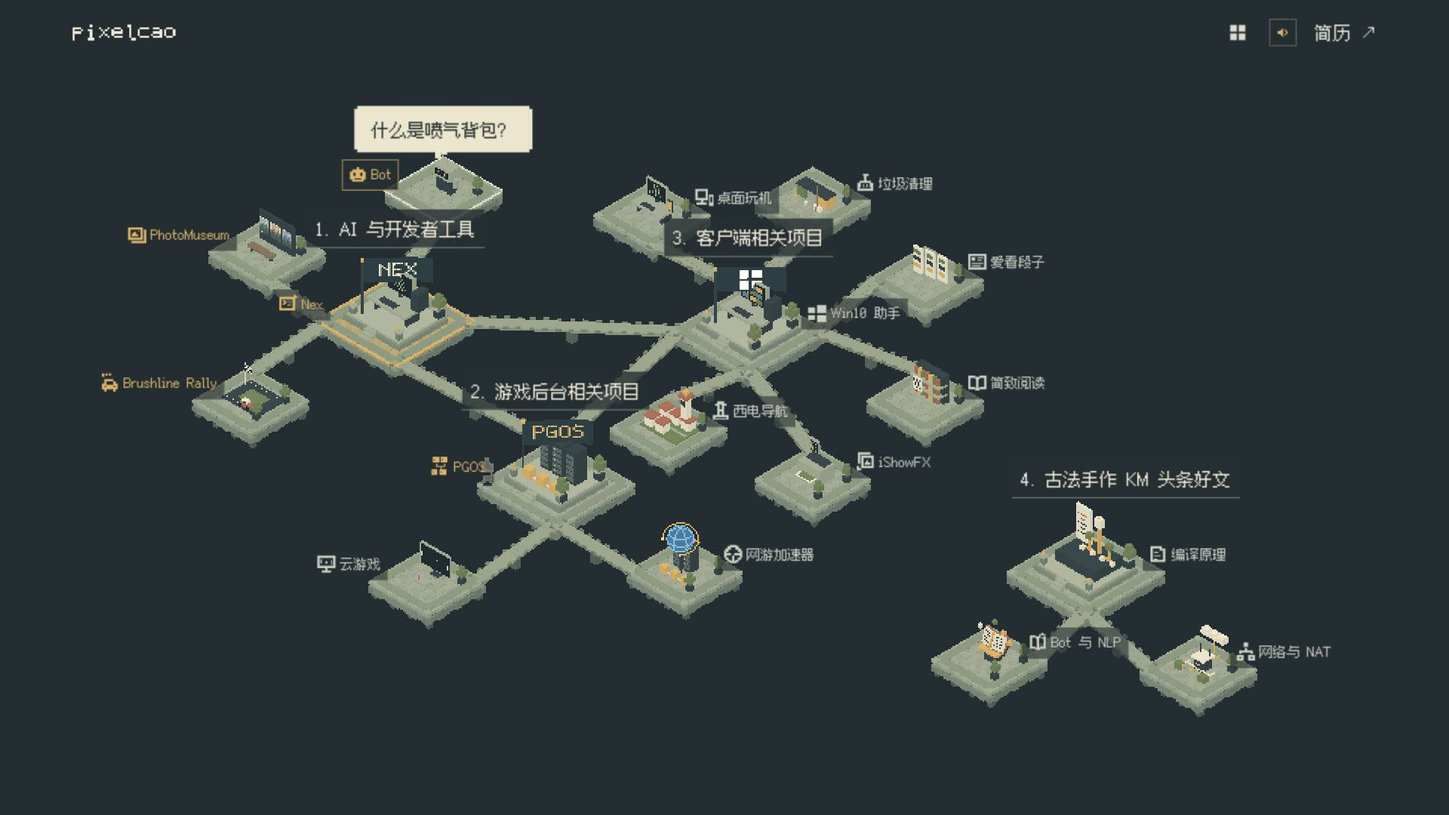
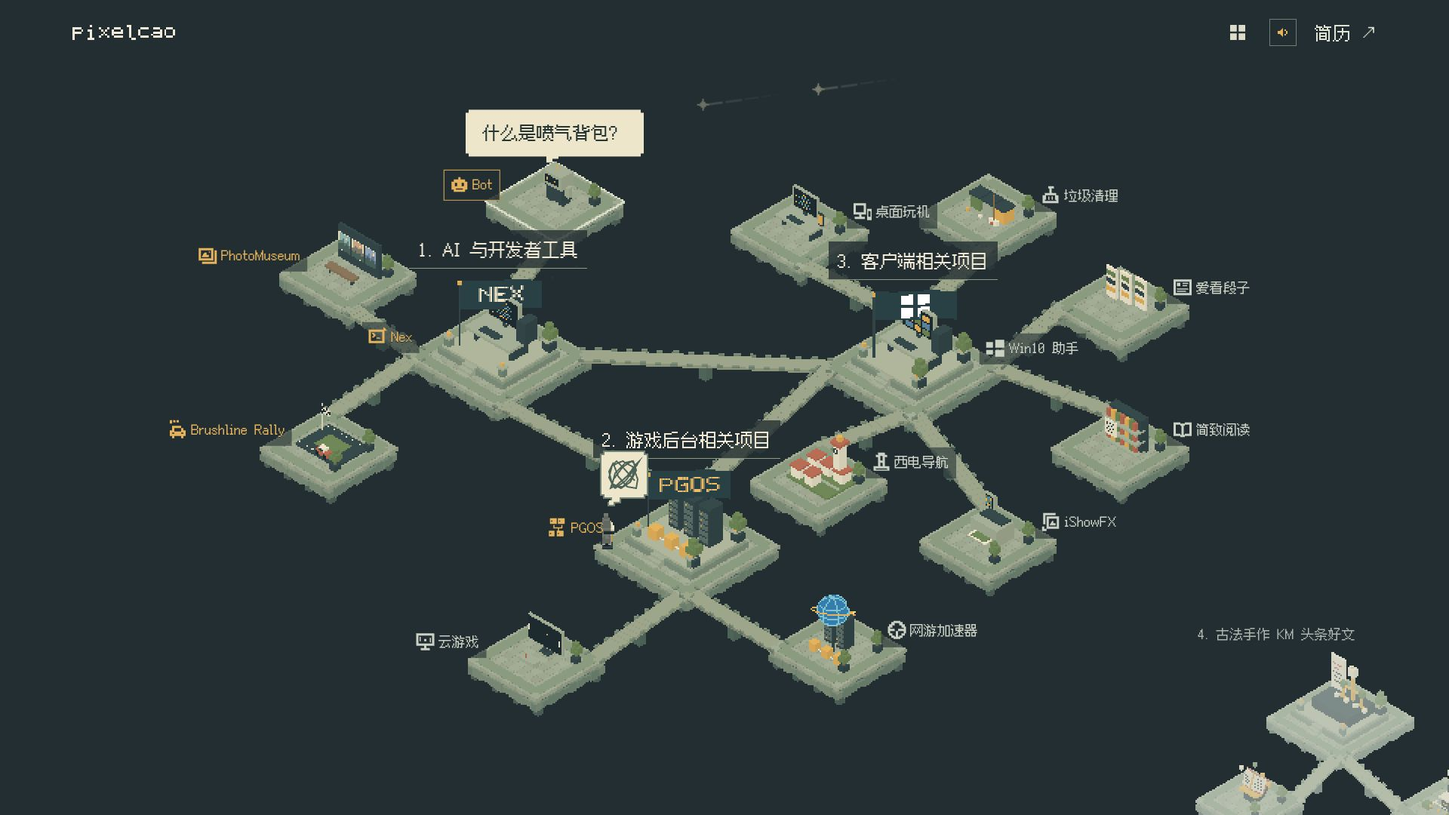
Center the main exhibition and fold KM into a masked edge preview

Changed region(s): [[0.0625, 0.1222, 1.0, 1.0], [0.8438, 0.0306, 0.9375, 0.0611], [0.0625, 0.0306, 0.125, 0.0611]]

diff --git a/src/exhibition.js b/src/exhibition.js
@@ -6,6 +6,7 @@ import {placeLabels} from './label-layout.js';
 import {HoverExhaust} from './hover-exhaust.js';
 import {RisingBridges} from './rising-bridges.js';
 import {TravelerIdle} from './traveler-idle.js';
+import {framedStations,archivePeekRect} from './archive-preview.js';
 import {makeWorld,Journey,themes} from './world.js';
 import {box,color,makeIsland,makeTraveler,batchBoxes} from './models.js';
 const clamp=T.MathUtils.clamp;
@@ -21,11 +22,12 @@ export class Exhibition {
   const mq=matchMedia('(prefers-reduced-motion: reduce)');this.reduced=()=>mq.matches||new URLSearchParams(location.search).get('motion')==='reduce';
   this.introActive=!this.reduced()&&!new URLSearchParams(location.hash.slice(1)).has('project');this.introElapsed=0;this.ripples=[];
   this.scene=new T.Scene();this.scene.background=new T.Color(0x222e32);
+  this.archiveMask={value:0};
   this.camera=new T.OrthographicCamera(-10,10,8,-8,.1,300);
   this.renderer=new T.WebGLRenderer({antialias:false,alpha:false,preserveDrawingBuffer:true});this.renderer.setPixelRatio(1);this.renderer.outputColorSpace=T.SRGBColorSpace;
   this.renderer.domElement.setAttribute('aria-label','四座主题岛群与白帽旅人');element.prepend(this.renderer.domElement);element.dataset.renderer='webgl';
   this.islands=this.world.stations.map(s=>{
-   const group=makeIsland(s);this.scene.add(group);group.traverse(o=>{if(o.material)o.material=o.material.clone();});
+   const group=makeIsland(s);this.scene.add(group);group.traverse(o=>{if(o.material){o.material=o.material.clone();if(!s.walkable)this.maskArchive(o.material);}});
    const edge=new T.LineSegments(new T.EdgesGeometry(new T.BoxGeometry(s.size,.06,s.size)),new T.LineBasicMaterial({color:color.gold}));edge.position.y=.03;group.add(edge);return {group,edge};
   });
   this.walkway=new T.Group();this.scene.add(this.walkway);this.sections=[];
@@ -41,7 +43,7 @@ export class Exhibition {
     }
    }
    if(e.bridge&&len>5)box(section,(a.x+b.x)/2,(a.y+b.y)/2-.65,(a.z+b.z)/2,.5,1,.5,0x556b60);
-   batchBoxes(section);section.traverse(o=>{if(o.material)o.material=o.material.clone();});this.sections.push({group:section,a:this.world.stations[a.station].theme,b:this.world.stations[b.station].theme});
+   batchBoxes(section);section.traverse(o=>{if(o.material){o.material=o.material.clone();if(this.world.stations[a.station].theme==='km')this.maskArchive(o.material);}});this.sections.push({group:section,a:this.world.stations[a.station].theme,b:this.world.stations[b.station].theme});
   }
   this.bridges=new RisingBridges(this.world);this.scene.add(this.bridges.group);
   this.traveler=makeTraveler();this.scene.add(this.traveler.root);this.traveler.root.scale.setScalar(1.15);
@@ -60,9 +62,35 @@ export class Exhibition {
   document.addEventListener('visibilitychange',()=>{this.last=0;this.hover=-1;this.focused=-1;this.idle.reset();this.onIslandSound?.({id:null});if(!document.hidden)this.wake();});
   this.renderer.domElement.addEventListener('webglcontextlost',e=>{e.preventDefault();this.active=false;this.focusShade.remove();this.profileButton.remove();this.islandMotion.bubble.remove();this.idle.dispose();this.onIslandSound?.({id:null});this.journey.cancel();this.closeResolve?.();this.closeResolve=null;this.onFailure?.();});
  }
+ maskArchive(material){
+  // A gray-white translucent veil composited only over the archive's surfaces.
+  material.onBeforeCompile=shader=>{shader.uniforms.archiveMask=this.archiveMask;shader.fragmentShader='uniform float archiveMask;\n'+shader.fragmentShader.replace('#include <colorspace_fragment>','#include <colorspace_fragment>\ngl_FragColor.rgb=mix(gl_FragColor.rgb,vec3(.80,.83,.80),archiveMask);');};
+  material.customProgramCacheKey=()=> 'archive-preview-mask-v1';
+ }
+ updateArchive(dt){
+  const stations=this.world.stations.filter(s=>!s.walkable),collapsed=this.mode==='overview';
+  const points=[];for(const s of stations)for(const x of [-s.size/2,s.size/2])for(const z of [-s.size/2,s.size/2])for(const y of [-1.5,s.hub?4.9:2.3])points.push(new T.Vector3(s.x+x,s.y+y,s.z+z));
+  const xs=points.map(p=>p.dot(right)),ys=points.map(p=>p.dot(up)),minX=Math.min(...xs),maxX=Math.max(...xs),minY=Math.min(...ys),maxY=Math.max(...ys);
+  const rect=archivePeekRect(this.width,this.height,(maxX-minX)/(maxY-minY));this.archiveRect=rect;
+  const units=this.viewHeight/this.height,targetScale=collapsed?Math.min(rect.width/(maxX-minX),rect.height/(maxY-minY))*units:1;
+  const offset=new T.Vector3();
+  if(collapsed){
+   const x=this.center.dot(right)+(rect.x+rect.width/2-this.width/2)*units-(minX+maxX)/2*targetScale;
+   const y=this.center.dot(up)+(this.height/2-rect.y-rect.height/2)*units-(minY+maxY)/2*targetScale;
+   offset.copy(right).multiplyScalar(x).addScaledVector(up,y);
+  }
+  const alpha=this.reduced()||!this.archivePose?1:1-Math.exp(-dt*7);
+  this.archivePose??={scale:targetScale,offset:offset.clone()};
+  this.archivePose.scale=T.MathUtils.lerp(this.archivePose.scale,targetScale,alpha);this.archivePose.offset.lerp(offset,alpha);
+  this.archiveMask.value=T.MathUtils.lerp(this.archiveMask.value,collapsed?.48:0,alpha);
+  this.archiveMoving=Math.abs(this.archivePose.scale-targetScale)>.0001||this.archivePose.offset.distanceTo(offset)>.005||Math.abs(this.archiveMask.value-(collapsed?.48:0))>.001;
+  for(const s of stations){const group=this.islands[s.index].group;group.position.set(s.x,s.y,s.z).multiplyScalar(this.archivePose.scale).add(this.archivePose.offset);group.scale.setScalar(this.archivePose.scale);group.visible=!this.introActive;}
+  for(const section of this.sections)if(section.a==='km'){section.group.position.copy(this.archivePose.offset);section.group.scale.setScalar(this.archivePose.scale);section.group.visible=!this.introActive;}
+  this.element.dataset.archive=collapsed?'collapsed':'expanded';this.element.dataset.archiveMask=this.archiveMask.value.toFixed(2);
+ }
  select(index,{focus=false}={}){this.selected=clamp(index,0,this.projects.length-1);if(focus)this.focusTheme(this.world.stations[this.selected].theme);this.syncLabels();this.wake();}
  focusTheme(id){this.cancel();this.browsingTransition=true;this.mode='theme';this.theme=id;this.follow=false;this.pan.set(0,0,0);this.zoom=1;this.syncLabels();this.wake();}
- overview(){this.cancel();this.browsingTransition=true;this.mode='overview';this.theme=null;this.follow=false;this.pan.set(0,0,0);this.zoom=1;this.syncLabels();this.wake();}
+ overview(){this.cancel();this.hover=-1;this.focused=-1;this.browsingTransition=true;this.mode='overview';this.theme=null;this.follow=false;this.pan.set(0,0,0);this.zoom=1;this.syncLabels();this.wake();}
  locate(index){this.skipIntro();this.browsingTransition=false;this.journey.cancel();if(this.world.stations[index].walkable)this.journey.visit(index,true);this.selected=index;this.theme=this.world.stations[index].theme;this.mode='theme';this.follow=false;this.pan.set(0,0,0);this.zoom=1;this.syncLabels();this.cameraAt(true);this.wake();}
  visit(index,{immediate=false}={}){
   if(['detail','closing'].includes(this.journey.phase))return;
@@ -115,12 +143,12 @@ export class Exhibition {
   // Fixed world axis (screen-right is x - z) keeps sign sides stable while panning.
   this.world.stations.forEach((s,i)=>{
    const b=document.createElement('button');b.disabled=!!this.browsingTransition;b.className='island-label';b.classList.toggle('is-featured',featuredLabels.has(s.id));b.dataset.card=i;b.dataset.projectId=s.id;b.dataset.labelSide=s.x>s.z?'right':'left';b.setAttribute('aria-label',`访问 ${this.projects[i].title}`);b.setAttribute('aria-pressed',String(i===this.selected));b.innerHTML=`${projectIcon(s.id)}<span>${shortNames[s.id]}</span>`;
-   b.onpointerenter=()=>{this.hover=i;this.wake();};b.onpointerleave=()=>{this.hover=-1;this.wake();};b.onfocus=()=>{this.focused=i;this.wake();};b.onblur=()=>{this.focused=-1;this.wake();};b.onclick=()=>this.onSelect(i,{visit:true});layer.append(b);
+   b.onpointerenter=()=>{this.hover=i;this.wake();};b.onpointerleave=()=>{this.hover=-1;this.wake();};b.onfocus=()=>{this.focused=i;this.wake();};b.onblur=()=>{this.focused=-1;this.wake();};b.onclick=()=>this.mode==='overview'&&!s.walkable?this.onTheme('km'):this.onSelect(i,{visit:true});layer.append(b);
   });
  }
  resize(){const r=this.element.getBoundingClientRect();if(!r.width||!r.height)return;this.width=r.width;this.height=r.height;this.headerHeight=document.querySelector('header')?.getBoundingClientRect().height||0;this.mobile=r.width<=850;this.renderer.setSize(Math.ceil(r.width/2),Math.ceil(r.height/2),false);this.cameraAt(true);this.wake();}
  framing(){
-  let stations=this.mode==='overview'?this.world.stations:this.world.stations.filter(s=>s.theme===this.theme);
+  let stations=framedStations(this.world.stations,this.mode,this.theme);
   const shortcut=this.follow?this.bridges.state.focusEdge(this.journey):null;
   if(shortcut)stations=[this.world.stations[this.world.nodes[shortcut.a].station],this.world.stations[this.world.nodes[shortcut.b].station]];
   const points=[];for(const s of stations)for(const x of [-s.size/2,s.size/2])for(const z of [-s.size/2,s.size/2])for(const y of [-1.5,s.hub?4.9:2.3])points.push(new T.Vector3(s.x+x,s.y+y,s.z+z));
@@ -157,9 +185,9 @@ export class Exhibition {
   el.addEventListener('pointermove',e=>{
    if(this.down){const dx=e.clientX-this.down.x,dy=e.clientY-this.down.y;if(Math.hypot(dx,dy)>8)this.down.drag=true;
     if(this.down.drag){this.follow=false;this.pan.copy(this.down.pan).addScaledVector(right,-dx*this.viewHeight/this.height).addScaledVector(up,dy*this.viewHeight/this.height);this.pan.clampLength(0,20);this.wake();}
-   }else{const hit=this.pick(e);el.style.cursor=hit!==-1?'pointer':this.mode==='theme'&&this.isBlank()?'zoom-out':'grab';if(hit!==this.hover){this.hover=hit;this.wake();}}
+   }else{const hit=this.pick(e);el.style.cursor=hit!==-1?'pointer':this.mode==='theme'&&this.isBlank()?'zoom-out':'grab';const hover=hit>=0&&this.mode==='overview'&&!this.world.stations[hit].walkable?-1:hit;if(hover!==this.hover){this.hover=hover;this.wake();}}
   });
-  el.addEventListener('pointerup',e=>{if(!this.down)return;const d=this.down;this.down=null;if(!d.drag){const hit=this.pick(e);if(hit===-2){this.onAbout?.();}else if(hit>=0){this.clickPoint=this.lastHit;this.onSelect(hit,{visit:true});}else if(d.background&&this.mode==='theme'&&this.isBlank()){this.onOverview?.();}}});
+  el.addEventListener('pointerup',e=>{if(!this.down)return;const d=this.down;this.down=null;if(!d.drag){const hit=this.pick(e);if(hit===-2){this.onAbout?.();}else if(hit>=0){if(this.mode==='overview'&&!this.world.stations[hit].walkable)this.onTheme('km');else{this.clickPoint=this.lastHit;this.onSelect(hit,{visit:true});}}else if(d.background&&this.mode==='theme'&&this.isBlank()){this.onOverview?.();}}});
   el.addEventListener('pointercancel',()=>{this.down=null;this.hover=-1;this.wake();});
   el.addEventListener('pointerleave',()=>{this.hover=-1;this.wake();});
   el.addEventListener('wheel',e=>{if(this.introActive){this.skipIntro();}if(['detail','closing'].includes(this.journey.phase))return;e.preventDefault();this.follow=false;this.zoom=clamp(this.zoom*Math.exp(-e.deltaY*.001),.8,1.6);this.wake();},{passive:false});
@@ -189,14 +217,18 @@ export class Exhibition {
   this.islands.forEach(({group,edge},i)=>{
    const station=this.world.stations[i],bridgeNeighbor=bridgeNeighbors.has(i);
    const nearTraveler=walking&&(bridgeNeighbor||Math.hypot(station.x-this.journey.position.x,station.z-this.journey.position.z)<10);
-   const highlighted=i===this.selected&&(this.mode==='theme'||this.world.stations[i].hub);
+   const collapsed=this.mode==='overview'&&!station.walkable;const highlighted=!collapsed&&i===this.selected&&(this.mode==='theme'||this.world.stations[i].hub);
    if(group.userData.highlight!==highlighted){group.userData.floor.material.color.set(highlighted?0xc5ac73:color.stone);group.userData.floor.material.userData.baseColor=group.userData.floor.material.color.clone();group.userData.highlight=highlighted;group.userData.intensity=undefined;}fade(group,this.mode==='overview'||station.theme===this.theme||nearTraveler?1:walking?.32:.07);
-   edge.visible=highlighted||i===this.hover||(['casting','opening'].includes(this.journey.phase)&&i===this.journey.target);edge.material.color.set(highlighted?color.gold:0xd8ddc7);
+   edge.visible=!collapsed&&(highlighted||i===this.hover||(['casting','opening'].includes(this.journey.phase)&&i===this.journey.target));edge.material.color.set(highlighted?color.gold:0xd8ddc7);
   });
   const project=(el,p)=>{p.project(this.camera);el.style.left=`${(p.x*.5+.5)*this.width}px`;el.style.top=`${(.5-p.y*.5)*this.height}px`;return Math.abs(p.x)<.98&&Math.abs(p.y)<.94;};
   const actor=this.journey.position;const actorShown=project(this.profileButton,new T.Vector3(actor.x,actor.y+1,actor.z));this.profileButton.hidden=hidden||!actorShown;
   this.element.querySelectorAll('[data-theme]').forEach(b=>{b.disabled=!!this.browsingTransition;
    const theme=themes.find(t=>t.id===b.dataset.theme),s=this.world.stations.find(s=>s.id===theme.hub);
+   const peek=theme.id==='km'&&this.mode==='overview';b.classList.toggle('archive-peek',peek);
+   b.setAttribute('aria-label',peek?'展开4. 古法手作 KM 头条好文':`浏览${theme.title}`);
+   if(peek){const r=this.archiveRect;b.hidden=hidden;b.style.left=r.x+'px';b.style.top=r.y+'px';b.style.width=r.width+'px';b.style.height=r.height+'px';return;}
+   b.style.width='';b.style.height='';
    const offset=(theme.labelOffsetU||0)/Math.SQRT2;const shown=project(b,new T.Vector3(s.x+offset,s.y+5.6,s.z-offset));b.hidden=hidden||!shown||this.mode!=='overview';
   });
   this.element.querySelectorAll('[data-card]').forEach(b=>{b.disabled=!!this.browsingTransition;
@@ -204,11 +236,11 @@ export class Exhibition {
    const shown=project(b,new T.Vector3(s.x+side*s.size/2,s.y+.3,s.z-side*s.size/2));
    const detailed=this.mode==='theme'&&(s.theme===this.theme||bridgeNeighbors.has(i));const labelWidth=b.offsetWidth;const left=parseFloat(b.style.left);b.style.left=`${clamp(left,labelWidth*ax+6,this.width-labelWidth*(1-ax)-6)}px`;
    // Desktop overview names stay visible; narrow screens reveal secondary names on demand.
-   b.hidden=hidden||!shown||(this.mode==='theme'&&!detailed);
+   b.hidden=hidden||!shown||(this.mode==='theme'&&!detailed)||(this.mode==='overview'&&!s.walkable);
    b.classList.toggle('quiet',this.mobile&&!detailed&&!s.hub&&this.hover!==i&&this.focused!==i);
    b.classList.toggle('is-hovered',this.hover===i);
   });
-  const signs=[...this.element.querySelectorAll('.theme-label,.island-label')].filter(b=>!b.hidden&&(!b.classList.contains('quiet')||b.matches(':focus-visible')));
+  const signs=[...this.element.querySelectorAll('.theme-label,.island-label')].filter(b=>!b.hidden&&!b.classList.contains('archive-peek')&&(!b.classList.contains('quiet')||b.matches(':focus-visible')));
   const labels=signs.map(b=>{const ax=b.classList.contains('theme-label')?.5:b.dataset.labelSide==='right'?.25:.75,ay=b.classList.contains('theme-label')?1:.9;return {element:b,ax,ay,width:b.offsetWidth,height:b.offsetHeight,x:parseFloat(b.style.left)-b.offsetWidth*ax,y:parseFloat(b.style.top)-b.offsetHeight*ay};});
   for(const label of placeLabels(labels,{width:this.width,height:this.height,top:this.headerHeight+8,bottom:60})){
    label.element.style.left=`${label.x+label.width*label.ax}px`;label.element.style.top=`${label.y+label.height*label.ay}px`;
@@ -221,12 +253,12 @@ export class Exhibition {
   this.bridges.update(dt,this.journey,this.reduced());
   const arrived=holding||this.introActive?null:this.journey.update(dt,(edge,from,to)=>this.bridges.state.canTraverse(edge,from,to));
   this.bridges.render();
-  if(arrived){this.selected=arrived.index;this.theme=this.world.stations[arrived.index].theme;this.mode='theme';this.pan.set(0,0,0);this.zoom=1;this.syncLabels();}if(this.introActive){this.introElapsed+=dt;if(this.introElapsed>=4.5)this.introActive=false;}this.skipButton.hidden=!this.introActive;this.element.dataset.intro=this.introActive?(this.introElapsed<1.2?'look':this.introElapsed<2.9?'scratch':'zoom'):'complete';this.cameraAt(false,dt);this.updateCharacter(dt);this.updateAmbience(dt);this.updateSpotlight(dt);
+  if(arrived){this.selected=arrived.index;this.theme=this.world.stations[arrived.index].theme;this.mode='theme';this.pan.set(0,0,0);this.zoom=1;this.syncLabels();}if(this.introActive){this.introElapsed+=dt;if(this.introElapsed>=4.5)this.introActive=false;}this.skipButton.hidden=!this.introActive;this.element.dataset.intro=this.introActive?(this.introElapsed<1.2?'look':this.introElapsed<2.9?'scratch':'zoom'):'complete';this.cameraAt(false,dt);this.updateArchive(dt);this.updateCharacter(dt);this.updateAmbience(dt);this.updateSpotlight(dt);
   const canHover=!this.reduced()&&!this.introActive&&!document.querySelector('dialog[open]')&&!this.down?.drag;if(!canHover)this.hover=-1;const focused=this.element.querySelector('[data-card]:focus-visible');const hover=canHover?(this.hover>=0?this.hover:focused?+focused.dataset.card:-1):-1;this.islandMotion.update(dt,hover>=0?hover:-1,this.camera,this.width,this.height);this.meteors.update(dt,canHover&&this.journey.phase==='idle',this.width,this.height);
   this.exhaust.update(dt,hover>=0?this.world.stations[hover]:null,canHover);this.element.dataset.exhaustProject=hover>=0?this.world.stations[hover].id:'';this.element.dataset.exhaustCount=String(this.exhaust.activeCount);
   this.layout();this.scene.updateMatrixWorld();this.renderer.render(this.scene,this.camera);this.element.dataset.drawCalls=String(this.renderer.info.render.calls);
   if(arrived)this.onOpen(arrived.index);if(this.closeResolve&&this.journey.phase==='idle'){this.closeResolve();this.closeResolve=null;}
-  const moving=this.bridges.state.moving||this.introActive||this.spotTransition||this.settling>0||this.ripples.length>0||['walking','casting','opening','closing'].includes(this.journey.phase)||this.center.distanceTo(this.goalCenter)>.005||Math.abs(this.viewHeight-this.goalHeight)>.005;
+  const moving=this.archiveMoving||this.bridges.state.moving||this.introActive||this.spotTransition||this.settling>0||this.ripples.length>0||['walking','casting','opening','closing'].includes(this.journey.phase)||this.center.distanceTo(this.goalCenter)>.005||Math.abs(this.viewHeight-this.goalHeight)>.005;
   this.element.dataset.cameraReady=String(!moving);
   const ambient=!this.reduced()&&!document.querySelector('dialog[open]');
   if(moving||ambient){this.pending=true;requestAnimationFrame(t=>this.draw(t));}else this.last=0;

diff --git a/src/style.css b/src/style.css
@@ -1067,6 +1067,11 @@ body:not(.theme-focused) .intro,body:not(.theme-focused) .browse{display:none}
 #timeline{min-height:500px}#stage{touch-action:none}
 .theme-label{position:absolute;transform:translate(-50%,-100%);white-space:nowrap;font-size:17px;font-weight:600;letter-spacing:.02em;padding:10px 12px;color:#eee8d4;border-bottom:1px solid #8d9a82;background:#222e32c9}
 .theme-label:hover,.theme-label[aria-pressed=true]{color:#edbd69;border-color:#edbd69}.theme-label:focus-visible{outline:2px solid #edbd69;outline-offset:5px}
+.theme-label.archive-peek{transform:none;background:transparent;border:0;padding:12px 12px 0;text-align:left;display:flex;align-items:flex-start;justify-content:flex-start;white-space:normal;font-size:18px;line-height:1.5;font-weight:400;color:#c7cdc6;text-shadow:0 2px #222e32;opacity:.85;transition:color .18s,opacity .18s}
+.theme-label.archive-peek:hover,.theme-label.archive-peek:focus-visible{color:#f0eedf;opacity:1}
+.theme-label.archive-peek:focus-visible{outline-offset:-8px}
+@media(max-width:850px){.theme-label.archive-peek{font-size:12px;padding:8px 6px 0;line-height:1.5}}
+.flat-archive-peek h2 button{padding:14px;border:1px solid #9ca79d;background:#c8cec821;color:#c7cdc6}
 .island-label{font-size:12px;padding:5px 10px 10px;transform:translate(-75%,-90%);background:#222e3299}.island-label.quiet{opacity:0}.island-label.quiet:focus-visible{opacity:1}.island-label:focus-visible{outline-offset:2px}
 #stage[data-renderer=fallback]{top:0;padding-top:20px;touch-action:auto}.theme-focused #stage[data-renderer=fallback]{top:250px}#stage[data-renderer=fallback] #cards{display:block}.flat-cluster h2{font-size:20px;margin:12px 0}.flat-cluster>div{display:grid;grid-template-columns:repeat(4,1fr);gap:15px;margin-bottom:30px}
 @media(max-width:850px){header{gap:14px}#overview{padding:7px 10px;font-size:12px}.theme-label{font-size:13px;padding:7px 5px}.island-label{font-size:11px;padding:4px 6px}.flat-cluster>div{grid-template-columns:repeat(2,1fr)}.flat-cluster h2{font-size:17px}#timeline{min-height:560px}.intro{top:16px}#summary{max-width:95%}.theme-focused .browse{bottom:3%}}

diff --git a/src/app.js b/src/app.js
@@ -36,7 +36,7 @@ import {installBlankDismiss} from './dialog-dismiss.js';
     const members=projectTheme(p.id).members,current=members.indexOf(p.id);
     $('#previous').disabled=current===0;$('#next').disabled=current===members.length-1;
     if(exhibition){exhibition.select(selected,{focus:!preserveCamera});}else{
-      $('#cards').innerHTML=themes.filter(t=>!activeTheme||t.id===activeTheme).map(t=>`<section class="flat-cluster"><h2><button data-theme-action="${t.id}">${esc(t.title)}</button></h2><div>${t.members.map(id=>{const i=projects.findIndex(q=>q.id===id),q=projects[i];return `<button class="flat-project ${i===selected?'active':''}" data-card="${i}" aria-label="访问 ${esc(q.title)}">${q.coverSrc?`<img src="${q.coverSrc}" alt="">`:''}<span class="flat-project-title">${projectIcon(q.id)}<span>${esc(q.title)}</span></span></button>`;}).join('')}</div></section>`).join('');
+      $('#cards').innerHTML=themes.filter(t=>!activeTheme||t.id===activeTheme).map(t=>`<section class="flat-cluster ${!activeTheme&&t.id==='km'?'flat-archive-peek':''}"><h2><button data-theme-action="${t.id}" aria-label="${!activeTheme&&t.id==='km'?'展开':''}${esc(t.title)}">${esc(t.title)}</button></h2><div ${!activeTheme&&t.id==='km'?'hidden':''}>${t.members.map(id=>{const i=projects.findIndex(q=>q.id===id),q=projects[i];return `<button class="flat-project ${i===selected?'active':''}" data-card="${i}" aria-label="访问 ${esc(q.title)}">${q.coverSrc?`<img src="${q.coverSrc}" alt="">`:''}<span class="flat-project-title">${projectIcon(q.id)}<span>${esc(q.title)}</span></span></button>`;}).join('')}</div></section>`).join('');
       all('[data-card]').forEach(b=>b.onclick=()=>visitProject(+b.dataset.card));
       all('[data-theme-action]').forEach(b=>b.onclick=()=>focusTheme(b.dataset.themeAction));
     }

diff --git a/src/archive-preview.js b/src/archive-preview.js
@@ -1,0 +1,11 @@
+// The archive is a peripheral preview, never part of the main overview framing.
+export function framedStations(stations,mode,theme){
+ return mode==='overview'?stations.filter(s=>s.walkable):stations.filter(s=>s.theme===theme);
+}
+
+export function archivePeekRect(width,height,aspect){
+ const w=Math.min(420,Math.max(190,width*.29));
+ const h=Math.min(height*.30,w/aspect);
+ // Keep a visible invitation while letting the right and bottom edges run offscreen.
+ return {x:width-w*.82,y:height-h*.82,width:w,height:h};
+}

diff --git a/README.md b/README.md
@@ -21,7 +21,7 @@ npm start
 
 ## 浏览
 
-- 首屏展示完整地图：AI 与开发者工具（Nex）、游戏后台相关项目（PGOS）、客户端相关项目（Win10 助手），以及右下角独立的「古法手作 KM 头条好文」岛群。点击主题名靠近岛群，只移动镜头。
+- 首屏围绕原有三组主岛居中取景：AI 与开发者工具（Nex）、游戏后台相关项目（PGOS）、客户端相关项目（Win10 助手），右下角独立的「古法手作 KM 头条好文」以灰白遮罩预览略微出画，不参与主岛取景。点击预览展开岛群，之后点击文章展台进入详情；点击主题名只移动镜头。
 - 点击“全景”或在闲置时按 Escape 回到整张地图。返回全景／切换主题会取消未完成访问，旅人留在实际位置。
 - 主题内左右箭头、方向键浏览所属项目；拖拽平移镜头，滚轮缩放，均不打开详情。年份保留在详情中。
 - 点击展台、项目标牌、左侧标题或“查看项目”：旅人沿桥梁网络的最短路径行走，到达后施法，金色方框展开为详情。关闭后留在原展台。
@@ -124,6 +124,8 @@ Bot ↔ 桌面玩机、Brushline Rally ↔ 云游戏、网游加速器 ↔ iShow
 
 ## KM 文章岛
 
-「4. 古法手作 KM 头条好文」位于全景右下方，与主展馆没有物理连接。编译原理、Bot 与 NLP、网络与 NAT 三个文章岛分别收纳 1、3、1 篇代表文章，雕塑分别表现编译语法树、魔法书与词向量、NAT 网关。点击后直接阅读简洁的文章卡片，旅人留在主馆原处，不行走、不施法、不瞬移。深链接、前进后退、关闭和无 WebGL 降级同样遵守这条规则。
+「4. 古法手作 KM 头条好文」位于全景右下方，与主展馆没有物理连接。默认以略微超出右下边缘的缩小预览展示，48% 灰白遮罩仅覆盖文章岛表面；主镜头只框选原有 14 个项目，不受文章岛位置影响。点击预览后，平滑恢复展台比例、移除遮罩并展开该主题。编译原理、Bot 与 NLP、网络与 NAT 三个文章岛分别收纳 1、3、1 篇代表文章，雕塑分别表现编译语法树、魔法书与词向量、NAT 网关。展开后点击文章展台直接阅读简洁的文章卡片，旅人留在主馆原处，不行走、不施法、不瞬移。深链接、前进后退、关闭和无 WebGL 降级同样遵守这条规则。
 
 `public/data/portfolio.json` 的 `articles` 集中保存五篇文章的标题、KM URL、日期与截图素材 ID；项目和文章岛只引用 ID，复用同一张截图。PGOS、Bot、网游加速器的详情素材区优先展示各自文章卡片，照片仍按原顺序排列。卡片整体可点击，在新标签页打开 KM。`km.woa.com` 为用户指定的内网目的地；未抓取文章正文、未检验外网可达性，也没有根据标题推断文章成果。验收见 `evidence/km-articles/validation.md`。
+
+四号岛群折叠预览的尺寸、遮罩、展开／收回与手机验证见 `evidence/archive-preview/validation.md`。

diff --git a/evidence/archive-preview/validation.md b/evidence/archive-preview/validation.md
@@ -1,0 +1,21 @@
+# 主岛居中与四号岛边缘预览
+
+2026-10-31，本机 `http://127.0.0.1:3000/`。
+
+- 默认镜头只使用原有 14 个可行走项目的边界，恢复三组主岛居中，不因 KM 岛群的位置或规模缩小主馆。
+- 四号岛群以右下角缩小预览展示：横向、纵向各约 18% 的预览长度越过右边缘与下边缘；遮罩以 48% 灰白色混合，仅作用于文章岛与内部桥梁表面，不覆盖主岛、文字或背景。
+- 初次点击预览只展开 KM 主题：恢复展台比例、平滑移动镜头、移除遮罩并显示三个文章入口，不立即打开文章。展开后点击文章展台才进入简洁详情。
+- 返回全景后平滑收回预览与遮罩；减少动态效果时即时完成。三座文章岛仍与主馆断开，旅人不会行走或瞬移。
+- 默认预览隐藏三个单独文章标牌，只显示第四主题标题，且不参加主馆标牌避让。键盘 Enter 和手机点按均可展开；平面降级也先显示主题入口，再展开三个文章卡片。
+
+## 验证
+
+- 新增 3 项测试：主馆取景不受文章岛位置影响；六种屏幕尺寸中预览始终可见且部分越界；折叠／展开只修改文章岛的渲染变换和遮罩，不修改主岛、主馆桥梁或旅人。全部 57 项测试通过。
+- `npm run check` 验证通过：14 个项目、3 个文章岛、5 篇文章、238 个素材 SHA-256、852 个站内引用。`npm run build` 独立构建完成，没有新增依赖。
+- 1440×900、1280×720、768×1024、390×844 的实际截图与坐标见本目录；页面均没有横向滚动。
+- 手机实际点击预览后，主题为 `km`、详情尚未打开、遮罩从 `0.48` 变为 `0.00`；随后点击 Bot 文章岛可打开三篇文章。
+- 常规动画实际验收见 `interaction.json`：展开过程中镜头未停稳、遮罩降至 `0.07`；停稳后遮罩为 `0.00`；返回后恢复 `0.48`。全程旅人坐标均为 `4.071,0.360,10.071`。
+- 平面降级初始 KM 项目区隐藏，点击第四主题后显示 3 个项目，未直接打开详情。
+- 浏览器未记录警告、错误或着色器编译失败。
+
+本轮不改动素材、文章归属、文章 URL、简历或 PDF。此前完整四主题全景的历史截图保留，新默认布局以本目录与 README 首图为准。
